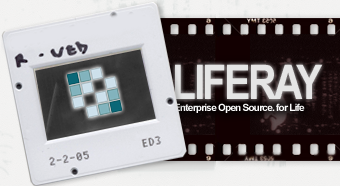
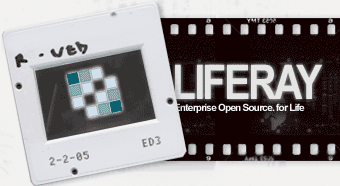
oh those sweet sweeping updates
git-svn-id: svn://svn.liferay.com/repos/public/plugins/trunk@10266 05bdf26c-840f-0410-9ced-eb539d925f36

diff --git a/themes/film-theme/docroot/_diffs/css/custom.css b/themes/film-theme/docroot/_diffs/css/custom.css
@@ -21,7 +21,7 @@ a {
 }
 
 #banner {																						  
-	background: transparent url(../images/common/banner_bg.png) no-repeat scroll 100% 100%;
+	background: transparent url(../images/common/banner_bg.png) repeat-x scroll 0 37px;
 	height: 180px;
 }
 
@@ -79,8 +79,12 @@ a {
 
 /* ------------ PORTLET ------------- */
 
+#portlet-wrapper-88 .portlet-content {
+	margin: 0 48px;
+}
+
 .portlet-topper, .portlet {
-	background: url(../images/portlet/portlet_bg.png) no-repeat right bottom;
+	background: url(../images/portlet/portlet_bg.png) repeat-y scroll right bottom;
 }
 
 .portlet-title, .portlet-content {
